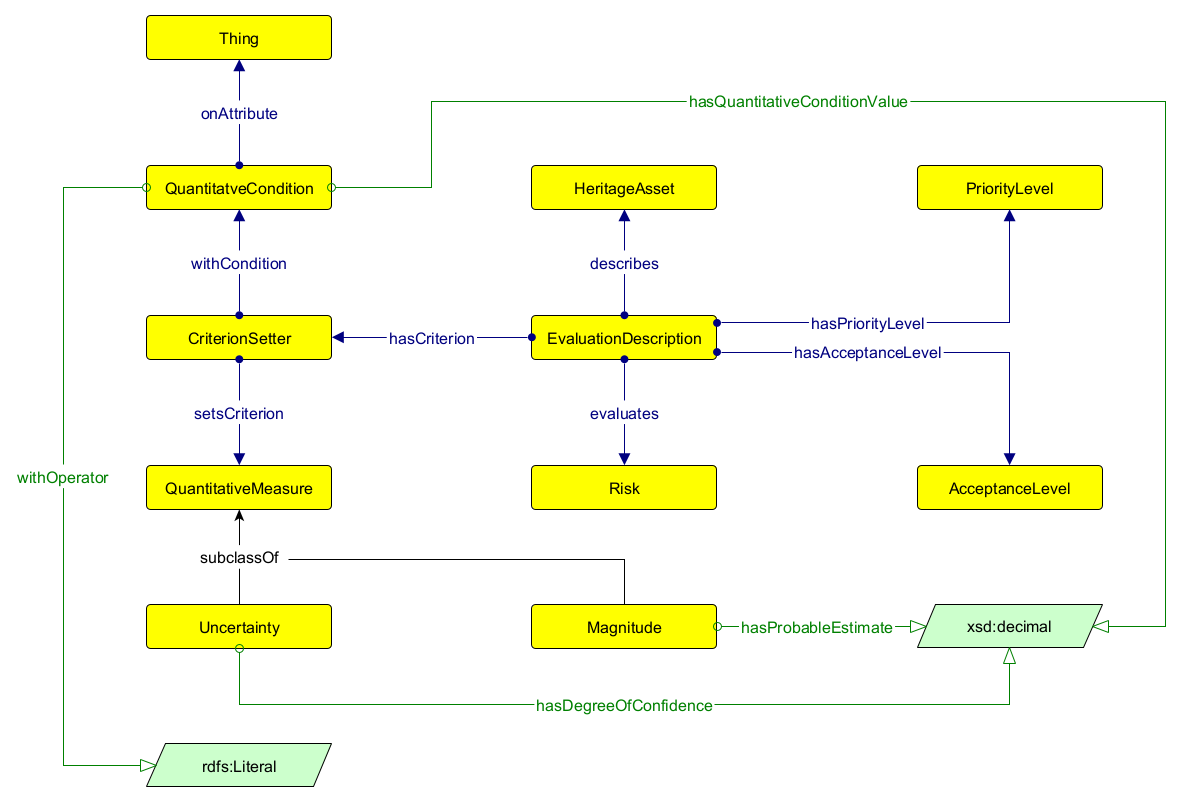
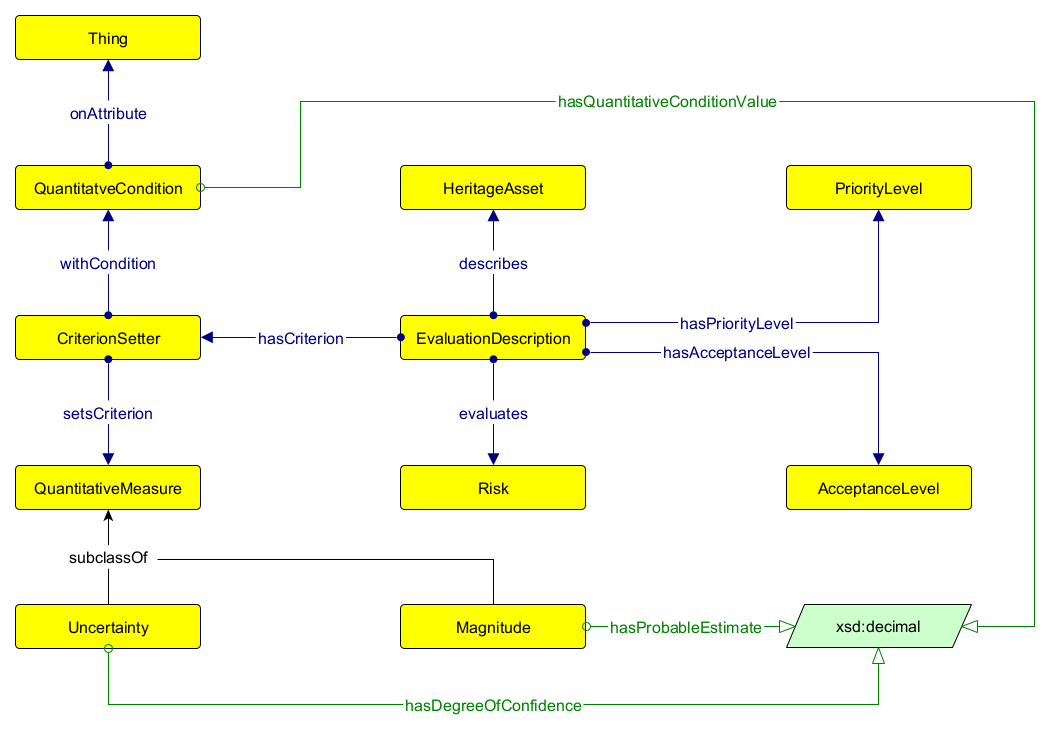
feat: iteration 05 formal cqs and testing; fix tbox, abox and modelet

diff --git a/data_model/development/05/formal-competency-questions.md b/data_model/development/05/formal-competency-questions.md
@@ -1,42 +1,73 @@
 # Formal Competency Questions
-## CQ_4.1
-Return the assets that are part of the `house` asset and the asset percentage they represent, in descending order.
+## CQ_5.1
+Return the risks with catastrophic (15-13.5), extreme (13-11.5) or high (11-9.5) priority.
 
 ```SPARQL
-PREFIX tbox: <https://w3id.org/sirius/ontology/development/04/schema/>
-PREFIX abox: <https://w3id.org/sirius/ontology/development/04/data/>
+PREFIX tbox: <https://w3id.org/sirius/ontology/development/05/schema/>
+PREFIX abox: <https://w3id.org/sirius/ontology/development/05/data/>
 
-SELECT DISTINCT ?asset ?asset_part ?percentage
+SELECT DISTINCT ?risk ?priority
 WHERE {
-  ?asset a tbox:HeritageAsset ;
-        tbox:hasPart ?asset_part .
-  ?value_assessment tbox:describes ?asset_part ;
-                        tbox:assessesPercentage ?percentage .
+  ?evaluation tbox:evaluates ?risk ;
+              tbox:hasPriorityLevel ?priority .
+  FILTER ( 
+      ?priority = tbox:catastriphic || 
+      ?priority = tbox:extreme ||
+      ?priority = tbox:high
+  )
 }
 ```
 
 ***
 
-## CQ_4.2
-Return the assets that are part of the `house` asset and the contributing values assigned to them, along with their score, dimension, aspect, note, documentation, and time interval.
+## CQ_5.2
+Return the risks, their priorities, the criterions (and their values) used to set the priorities, the conditions values on which the criterions have been set, and their acceptance levels.
 
 ```SPARQL
-PREFIX tbox: <https://w3id.org/sirius/ontology/development/04/schema/>
-PREFIX abox: <https://w3id.org/sirius/ontology/development/04/data/>
+PREFIX tbox: <https://w3id.org/sirius/ontology/development/05/schema/>
+PREFIX abox: <https://w3id.org/sirius/ontology/development/05/data/>
 
-SELECT DISTINCT ?asset_part ?value ?score ?dimension ?aspect ?note ?document ?time_interval_start ?time_interval_end
+SELECT DISTINCT ?risk ?priority ?criterion ?criterion_value ?condition_value ?acceptance
 WHERE {
-    ?asset a tbox:HeritageAsset ;
-            tbox:hasPart ?asset_part .
-    ?value_assessment tbox:describes ?asset_part ;
-                        tbox:assigns ?value ;
-                        tbox:withinDimension ?dimension ;
-                        tbox:withinAspect ?aspect ;
-                        tbox:hasNote ?note ;
-                        tbox:isDocumentedBy ?document ;
-                        tbox:atTime ?time_interval .
-    ?value tbox:hasScore ?score .
-    ?time_interval tbox:hasStartDate ?time_interval_start ;
-                    tbox:hasEndDate ?time_interval_end .
+    ?evaluation tbox:evaluates ?risk ;
+              tbox:hasPriorityLevel ?priority ;
+              tbox:hasAcceptanceLevel ?acceptance ;
+              tbox:hasCriterion ?criterion_setter .
+    ?criterion_setter tbox:setsCriterion ?criterion ;
+                      tbox:withCondition ?condition .
+    ?criterion ?value_property ?criterion_value .
+    ?condition tbox:hasQuantitativeConditionValue ?condition_value .
+    FILTER (
+      ?value_property = tbox:hasProbableEstimate ||
+      ?value_property = tbox:hasDegreeOfConfidence
+    )
+}
+```
+
+***
+
+## CQ_5.3
+Return the values of the magnitudes and the uncertainties used as criterions, the values of their conditions, the priorities assigned to their respective risks, and their acceptance levels.
+
+```SPARQL
+PREFIX tbox: <https://w3id.org/sirius/ontology/development/05/schema/>
+PREFIX abox: <https://w3id.org/sirius/ontology/development/05/data/>
+
+SELECT DISTINCT ?risk ?magnitude_value ?magnitude_condition_value ?uncertainty_value ?uncertainty_condition_value ?priority ?acceptance
+WHERE {
+    ?evaluation tbox:evaluates ?risk ;
+              tbox:hasPriorityLevel ?priority ;
+              tbox:hasAcceptanceLevel ?acceptance ;
+              tbox:hasCriterion ?magnitude_setter , ?uncertainty_setter .
+    ?magnitude_setter tbox:setsCriterion ?magnitude ;
+                      tbox:withCondition ?magnitude_condition .
+    ?magnitude a tbox:Magnitude ;
+               tbox:hasProbableEstimate ?magnitude_value .
+    ?magnitude_condition tbox:hasQuantitativeConditionValue ?magnitude_condition_value .
+    ?uncertainty_setter tbox:setsCriterion ?uncertainty ;
+                      tbox:withCondition ?uncertainty_condition .
+    ?uncertainty a tbox:Uncertainty ;
+                 tbox:hasDegreeOfConfidence ?uncertainty_value .
+    ?uncertainty_condition tbox:hasQuantitativeConditionValue ?uncertainty_condition_value .
 }
 ```

diff --git a/data_model/development/05/glossary.md b/data_model/development/05/glossary.md
@@ -24,7 +24,6 @@
 |                       | `hasDegreeOfConfidence` | A property that assigns a quantitative value to an uncertainty measure.                                                                                                                                             |          |
 |                       | `hasProbableEstimate`   | A property that assigns a estimate value for the most likely case scenario to a measure.                                                                                                                            |          |
 |                       | `hasQuantitativeConditionValue`     | A property that assigns a value to a quantitative condition.                                                                                                                                                                     |          |
-|                       | `withOperator`     | A property that assigns an operator to a condition.                                                                                                                                                                     |          |
 | **Individuals**       |                         |                                                                                                                                                                                                                     |          |
 |                       | `treat-asap`            | An acceptance level that expresses the need to treat the risk as soon as possible.                                                                                                                                  |          |
 |                       | `review-asap`           | An acceptance level that expresses the need to review the risk as soon as possible.                                                                                                                                 |          |
